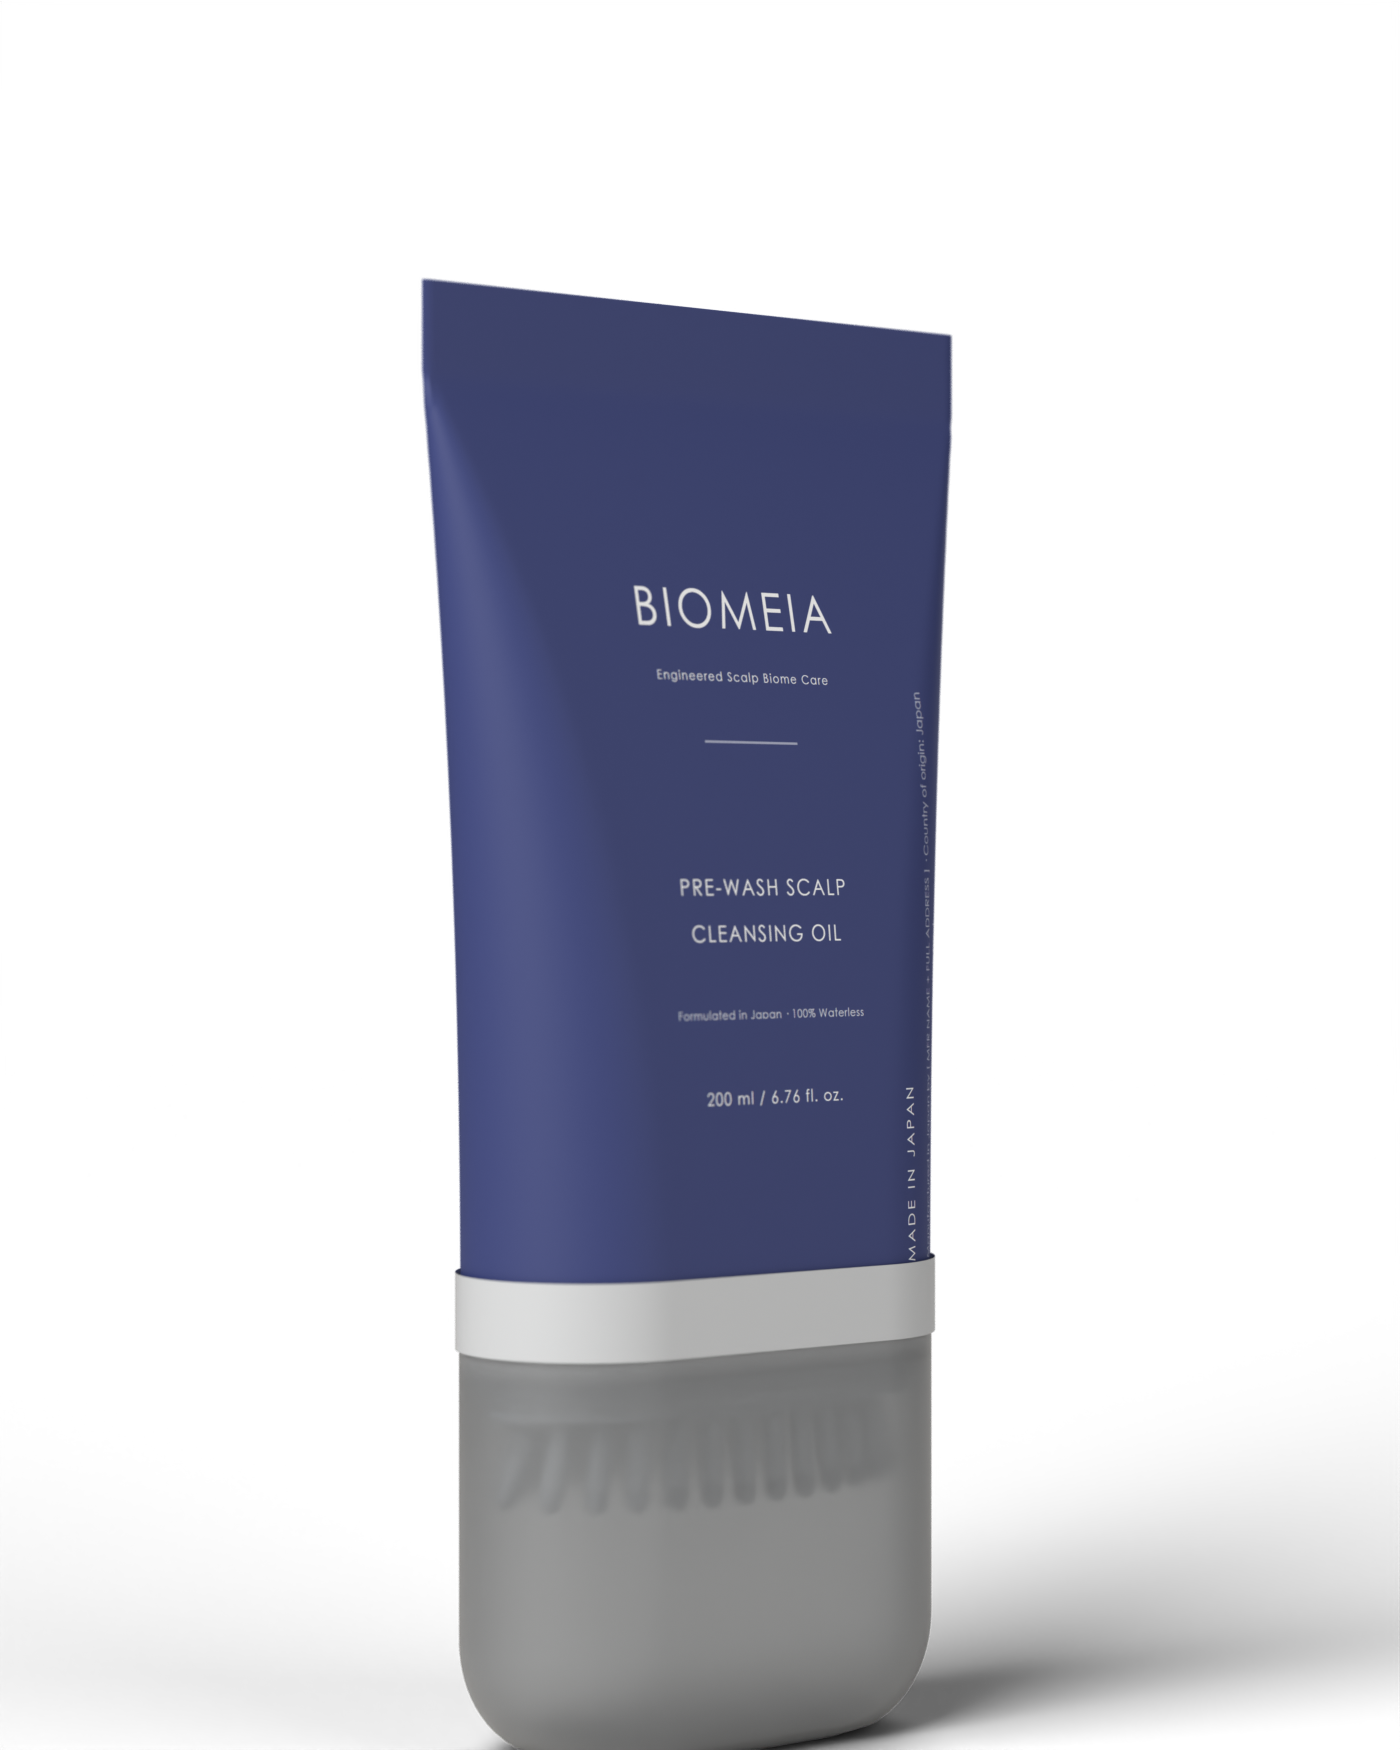
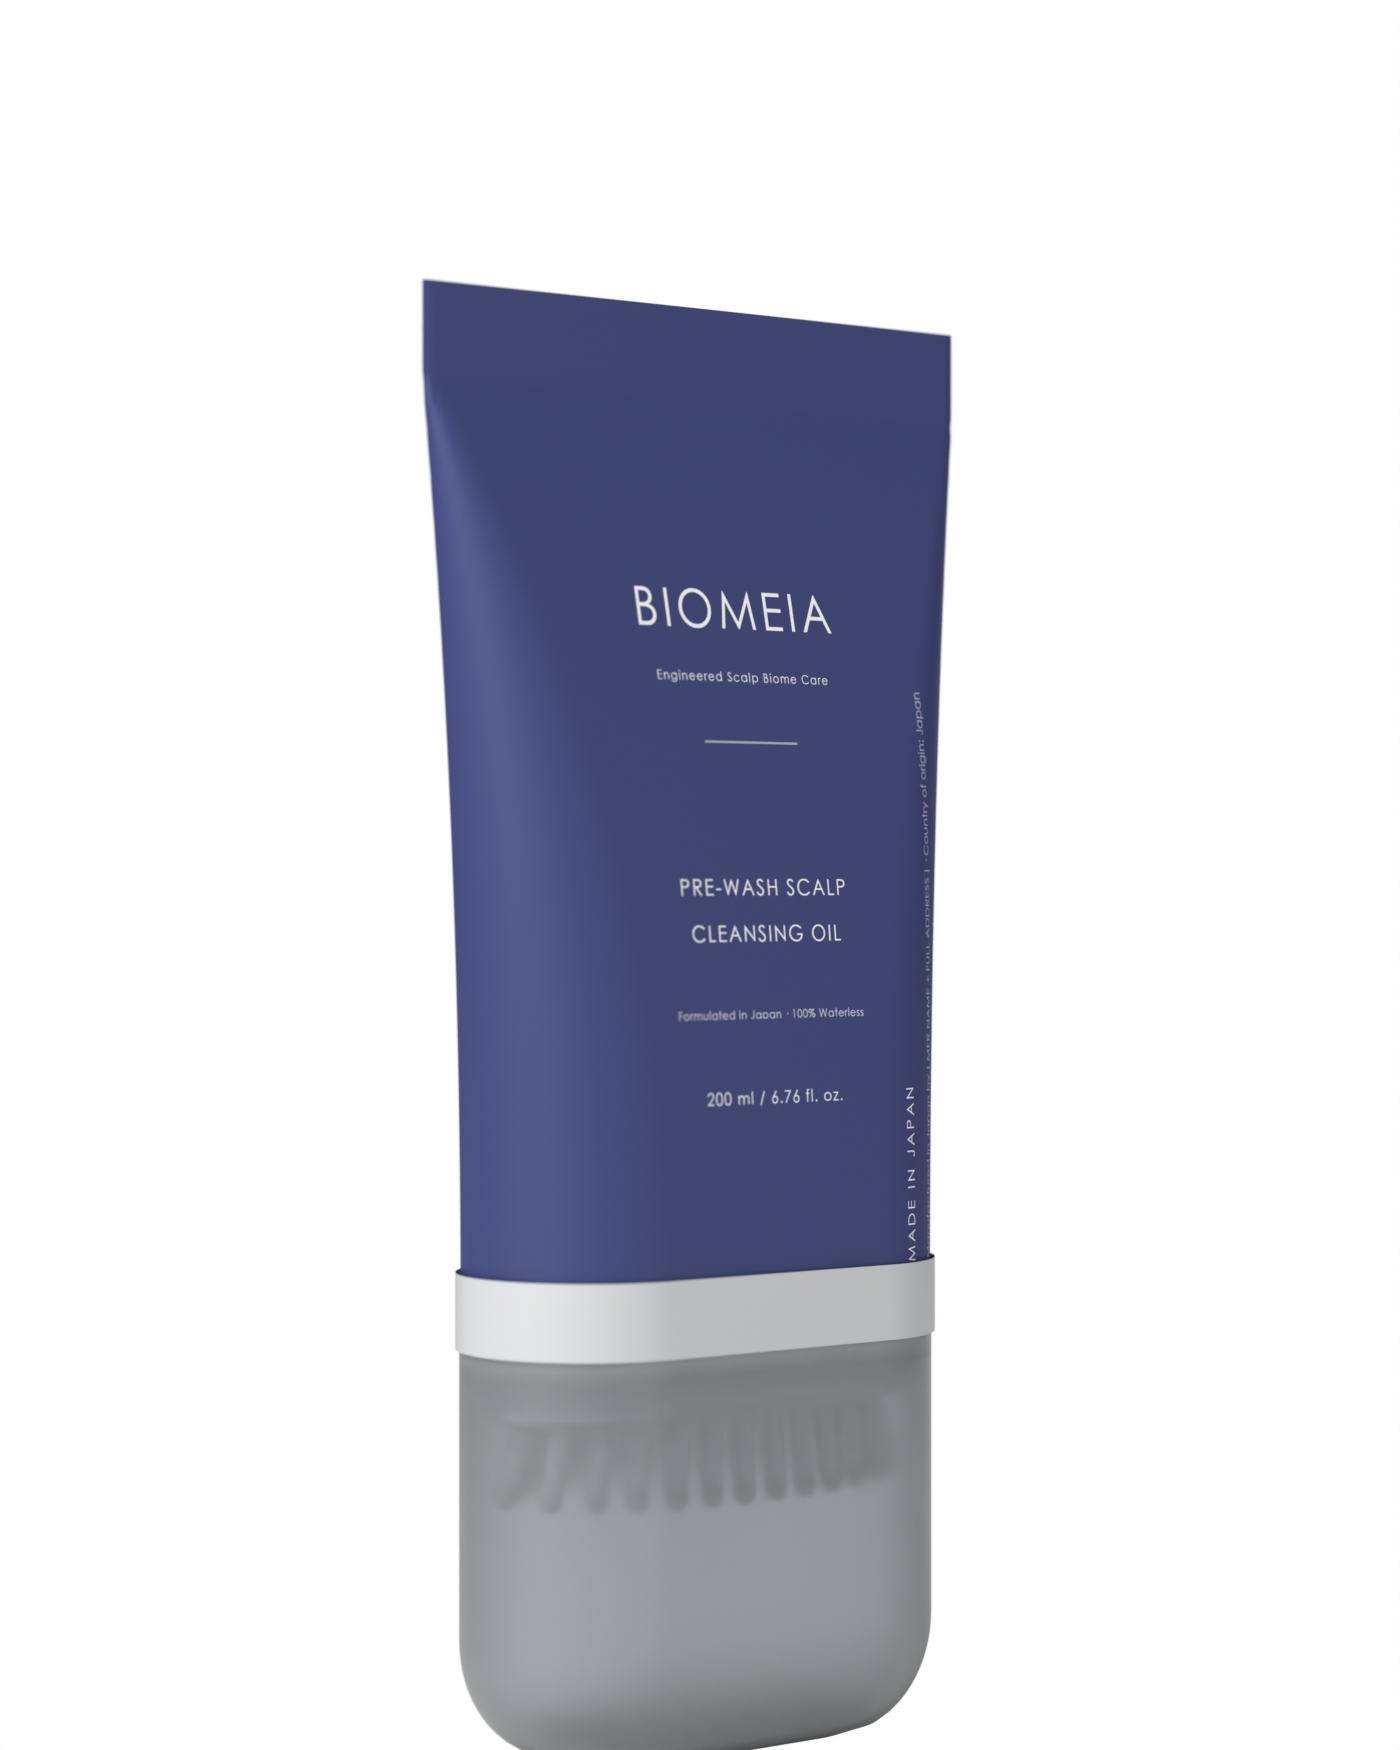
Rebuild section 2 as engineering callouts on the hero; widen applicator shot
The four stats no longer sit in their own band throwing sketch arrows at
the product. They are now balloon-and-leader annotations anchored to the
features they describe: the body, the printed 200 ml net-content line, the
collar's ON/OFF control, and the comb teeth.

The product image is drawn inside the callout SVG rather than behind an
overlay so the leaders stay registered to the features at every width. That
makes the render's framing load-bearing — anchors are in SVG user space and
assume the current camera, spin and resolution.

tube-angle.png re-rendered onto white. As a transparent PNG the shadow
catcher carried its soft shadow to the frame edge, which showed on the page
as a faint grey rectangle behind the tube; the leaders made it obvious.

applicator.png re-framed wide: 70 mm at f/5.6 pulled back to show the whole
ring of teeth with the lower tube for scale. The old tight macro read as
abstract texture rather than as an applicator.

Below 900px the SVG labels would scale past readable, so it swaps for a
plain img of the same file and the spec list under the hero carries the
same four details.

Also restores the missing space between the heading and body copy in the
skin-first section — h2 is margin-zeroed globally and nothing put it back.

Changed region(s): [[0.5529, 0.864, 1.0, 1.0], [0.3379, 0.9874, 0.3686, 1.0]]

diff --git a/css/sections.css b/css/sections.css
@@ -27,31 +27,68 @@
 }
 .hero .lede { margin-bottom: 34px; }
 
+/* Height comes from the callout SVG own 560:470 aspect rather than a
+   clamp here -- the two must not fight, or the leader lines shear away
+   from the product they point at. */
 .hero-media {
   position: relative;
   display: flex; align-items: center; justify-content: center;
-  height: clamp(360px, 46vw, 640px);
 }
-.hero-media img {
-  height: 100%; width: auto; object-fit: contain;
-  filter: drop-shadow(0 32px 60px rgba(20, 22, 28, 0.16));
+
+/* ------------------------------------------------- hero spec callouts --- */
+/* The product photograph is drawn inside this SVG rather than behind it,
+   so leader lines, balloons and the features they point at share one
+   coordinate space and stay registered at every width. */
+.hero-callouts {
+  width: 100%; height: auto;
+  overflow: visible;
 }
-.hero-ring {
-  position: absolute; inset: 6% 14%;
-  border: 1px solid var(--rule);
-  border-radius: 50%;
-  z-index: -1;
+.co-line path {
+  fill: none;
+  stroke: var(--rule-strong);
+  stroke-width: 1;
 }
+.co-dot circle { fill: none; stroke: var(--indigo); stroke-width: 1.4; }
+.co-balloon circle { fill: none; stroke: var(--indigo); stroke-width: 1; }
+.co-ref text {
+  fill: var(--indigo);
+  font-family: var(--display);
+  font-size: 9px; letter-spacing: 0.04em;
+  text-anchor: middle;
+}
+.co-label text {
+  fill: var(--ink);
+  font-family: var(--display);
+  font-size: 13.5px; letter-spacing: 0.13em;
+  text-anchor: end;
+}
+.co-sub text {
+  fill: var(--ink-3);
+  font-family: var(--body);
+  font-size: 10.5px; letter-spacing: 0.02em;
+  text-anchor: end;
+}
+
+/* The stacked-layout stand-in for the annotated SVG. */
+.hero-photo {
+  display: none;
+  width: auto; height: auto;
+  max-height: clamp(280px, 62vw, 440px);
+  margin: 0 auto;
+}
+
 @media (max-width: 900px) {
   .hero { grid-template-columns: 1fr; padding-top: 108px; text-align: left; }
-  .hero-media { order: -1; height: clamp(260px, 70vw, 440px); margin-bottom: 8px; }
+  .hero-media { order: -1; margin-bottom: 8px; }
   .hero-copy { max-width: none; }
+  .hero-callouts { display: none; }
+  .hero-photo { display: block; }
 }
 
 /* ------------------------------------------------------------ statline --- */
-/* Reads as annotation on the hero above it rather than a separate band:
-   no top border, same white ground, and each stat throws a hand-drawn
-   arrow up toward the product. */
+/* Positioning line plus the same four specs as the hero callouts, set as a
+   plain definition list so they still read when the hero annotations are
+   hidden on narrow screens. */
 .statline {
   background: var(--white);
   padding-bottom: clamp(48px, 7vw, 88px);
@@ -61,38 +98,37 @@
   font-size: clamp(15px, 1.5vw, 18px);
   letter-spacing: 0.16em; text-transform: uppercase;
   color: var(--indigo);
-  text-align: center; margin: 0 auto 8px; max-width: none;
+  text-align: center; margin: 0 auto 28px; max-width: none;
 }
-.stat-row { display: grid; grid-template-columns: repeat(4, 1fr); gap: 0; }
-.stat {
-  padding: 8px clamp(8px, 1.6vw, 20px) 0;
+.spec-list {
+  display: grid; grid-template-columns: repeat(4, 1fr);
+  gap: 0; margin: 0;
+  border-top: 1px solid var(--rule);
+}
+.spec-list > div {
+  padding: 20px clamp(10px, 1.8vw, 24px);
+  border-right: 1px solid var(--rule);
   text-align: center;
-  position: relative;
 }
-.stat-arrow {
-  width: clamp(38px, 3.6vw, 56px); height: auto;
-  margin: 0 auto 10px;
-  display: block;
-  fill: none; stroke: var(--rule-strong);
-  stroke-width: 2; stroke-linecap: round; stroke-linejoin: round;
+.spec-list > div:last-child { border-right: 0; }
+.spec-list dt {
+  font-family: var(--display);
+  font-size: clamp(15px, 1.7vw, 19px);
+  letter-spacing: 0.1em; text-transform: uppercase;
+  color: var(--indigo);
+  margin-bottom: 5px;
 }
-/* The product sits right of centre in the hero, so the arrows fan toward
-   it rather than each pointing straight up out of its own column. */
-.arrow-1 { margin-left: 55%; }
-.arrow-2 { margin-left: 52%; }
-.arrow-3 { margin-left: 46%; }
-.arrow-4 { margin-left: 34%; }
-.stat b {
-  display: block; font-family: var(--display); font-size: clamp(22px, 2.6vw, 30px);
-  color: var(--indigo); margin-bottom: 6px;
+.spec-list dd {
+  margin: 0;
+  font-size: 13px; letter-spacing: 0.02em; color: var(--ink-2);
 }
-.stat span { font-size: 13px; letter-spacing: 0.04em; color: var(--ink-2); }
 @media (max-width: 720px) {
-  .stat-row { grid-template-columns: repeat(2, 1fr); row-gap: 28px; }
-  .stat-arrow { display: none; }   /* arrows only make sense pointing at the hero */
+  .spec-list { grid-template-columns: repeat(2, 1fr); }
+  .spec-list > div:nth-child(2n) { border-right: 0; }
+  .spec-list > div:nth-child(n+3) { border-top: 1px solid var(--rule); }
 }
-
-/* ------------------------------------------------------------- section --- */
+."
+/* ------------------------------------------------------------- section --- */"
 .section { padding: var(--section) 0; }
 .section.on-bone { background: var(--bone); }
 .section-head { max-width: 640px; margin: 0 0 56px; }
@@ -103,6 +139,9 @@
   display: grid; grid-template-columns: 1fr 1fr; gap: clamp(28px, 5vw, 80px);
   align-items: center;
 }
+/* h2 is margin-zeroed globally; standalone headings like this one need
+   their own space before the body copy. */
+.logic-copy h2 { margin-bottom: 22px; }
 .logic-copy p { font-size: 17.5px; color: var(--ink-2); }
 .logic-copy strong { color: var(--ink); font-weight: 600; }
 .bridge-list { list-style: none; margin: 28px 0 0; padding: 0; display: grid; gap: 0; }

diff --git a/index.html b/index.html
@@ -40,33 +40,77 @@
       </p>
       <a href="#signup" class="btn">Get First-Batch Access</a>
     </div>
+
+    <!-- Product plus engineering callouts. The image lives inside the SVG so
+         the leader lines stay locked to the features they point at at every
+         viewport width — an absolutely-positioned overlay drifts as soon as
+         the container aspect changes. -->
     <div class="hero-media">
-      <div class="hero-ring" aria-hidden="true"></div>
-      <img src="assets/product/tube-angle.png" alt="Biomeia Pre-Wash Scalp Cleansing Oil, 200 ml tube with built-in applicator" width="900" height="1125">
+      <svg class="hero-callouts" viewBox="0 0 560 470" role="img"
+           aria-label="Biomeia Pre-Wash Scalp Cleansing Oil, 200 ml tube with a built-in multi-port comb applicator and ON/OFF dispensing control">
+        <image href="assets/product/tube-angle.png" x="200" y="12" width="340" height="425"/>
+
+        <!-- Leaders elbow out horizontally from the balloon before angling
+             to the anchor, so the label column stays on an even rhythm while
+             the anchors sit exactly on the features. -->
+        <g class="co-line">
+          <path d="M203 150 H 329"/>
+          <path d="M203 255 H 300 L 387 288"/>
+          <path d="M203 330 H 337"/>
+          <path d="M203 400 H 300 L 347 374"/>
+        </g>
+        <g class="co-dot">
+          <circle cx="332" cy="150" r="3.2"/>
+          <circle cx="390" cy="288" r="3.2"/>
+          <circle cx="340" cy="330" r="3.2"/>
+          <circle cx="350" cy="373" r="3.2"/>
+        </g>
+
+        <g class="co-balloon">
+          <circle cx="194" cy="150" r="9"/>
+          <circle cx="194" cy="255" r="9"/>
+          <circle cx="194" cy="330" r="9"/>
+          <circle cx="194" cy="400" r="9"/>
+        </g>
+        <g class="co-ref">
+          <text x="194" y="153.5">01</text>
+          <text x="194" y="258.5">02</text>
+          <text x="194" y="333.5">03</text>
+          <text x="194" y="403.5">04</text>
+        </g>
+
+        <g class="co-label">
+          <text x="176" y="148">100% WATERLESS</text>
+          <text x="176" y="253">200 ML</text>
+          <text x="176" y="328">ON / OFF</text>
+          <text x="176" y="398">MULTI-PORT</text>
+        </g>
+        <g class="co-sub">
+          <text x="176" y="162">No water fillers</text>
+          <text x="176" y="267">6.76 fl. oz. net</text>
+          <text x="176" y="342">Dispensing control</text>
+          <text x="176" y="412">Comb applicator</text>
+        </g>
+      </svg>
+      <!-- Below 900px the callout labels would scale past readable, so the
+           SVG gives way to the plain product image and the spec list under
+           the hero carries the same four details. Same file, so no extra
+           request. -->
+      <img class="hero-photo" src="assets/product/tube-angle.png" alt="Biomeia Pre-Wash Scalp Cleansing Oil, 200 ml tube with a built-in applicator" width="1400" height="1750">
     </div>
   </header>
 
   <section class="statline">
     <div class="wrap">
       <p class="statline-lead">Bringing J-Beauty scalp care to Singapore</p>
-      <div class="stat-row">
-        <div class="stat">
-          <svg class="stat-arrow arrow-1" viewBox="0 0 60 40" aria-hidden="true"><path d="M2 37 C 20 34, 38 26, 56 8" /><path d="M47 6 L 58 6 L 55 17" /></svg>
-          <b>100%</b><span>Waterless formula</span>
-        </div>
-        <div class="stat">
-          <svg class="stat-arrow arrow-2" viewBox="0 0 60 40" aria-hidden="true"><path d="M6 37 C 22 32, 38 22, 54 8" /><path d="M45 5 L 56 6 L 52 17" /></svg>
-          <b>1</b><span>Built-in scalp applicator</span>
-        </div>
-        <div class="stat">
-          <svg class="stat-arrow arrow-3" viewBox="0 0 60 40" aria-hidden="true"><path d="M14 37 C 26 30, 38 18, 50 7" /><path d="M41 5 L 52 5 L 49 16" /></svg>
-          <b>5</b><span>Steps, once or twice weekly</span>
-        </div>
-        <div class="stat">
-          <svg class="stat-arrow arrow-4" viewBox="0 0 60 40" aria-hidden="true"><path d="M26 38 C 32 28, 36 16, 40 6" /><path d="M33 7 L 41 3 L 44 13" /></svg>
-          <b>SG</b><span>Launching in Singapore</span>
-        </div>
-      </div>
+      <!-- Same four details as the hero callouts, for viewports where the
+           layout stacks and SVG label text would be too small to read. -->
+      <dl class="spec-list">
+        <div><dt>100% Waterless</dt><dd>No water fillers</dd></div>
+        <div><dt>200 ml</dt><dd>6.76 fl. oz. net</dd></div>
+        <div><dt>ON / OFF</dt><dd>Dispensing control</dd></div>
+        <div><dt>Multi-port</dt><dd>Comb applicator</dd></div>
+      </dl>
     </div>
   </section>
 
@@ -150,7 +194,7 @@
   <!-- ======================================================= applicator === -->
   <section class="section">
     <div class="wrap applicator-band">
-      <img src="assets/product/applicator.png" loading="lazy" alt="Close-up of the Biomeia applicator head, a dished oval with teeth ringing the rim" width="1600" height="1200">
+      <img src="assets/product/applicator.png" loading="lazy" alt="Close-up of the Biomeia applicator head, a dished oval with teeth ringing the rim" width="1600" height="1060">
       <div class="reveal">
         <p class="eyebrow">Direct-to-Scalp Delivery</p>
         <h2>An applicator built for skin, not for hair length</h2>

diff --git a/NOTES.md b/NOTES.md
@@ -14,8 +14,9 @@ white minimalism as the one accent.
 ## File map
 
 ```
-index.html          — the landing page (hero, stats, science, ritual,
-                       applicator, turntable video, signup)
+index.html          — the landing page (hero with engineering callouts,
+                       spec line, science, ritual, applicator, turntable
+                       video, signup)
 story.html           — founder's-story page, drawn from the brand
                        guidelines' founder narrative (§3)
 privacy.html         — PDPA-oriented privacy policy (draft, flagged for
@@ -45,11 +46,19 @@ stock photography. Transparent background with `is_shadow_catcher` on
 the floor, so the tube drops onto the page without a studio backdrop
 fighting the white ground.
 
-- `tube-front.png` / `tube-angle.png` — hero and general use
-- `applicator.png` — a close macro of the comb-tip rim. It reads more
-  abstract than a straight product shot; if it needs to read more
-  clearly as "the applicator" at a glance, re-render a wider framing
-  from `CAM_Comb` with `SHOW_CAP = False`.
+- `tube-front.png` — straight-on, still a transparent PNG.
+- `tube-angle.png` — the hero three-quarter. Re-rendered onto **white**
+  (`scratchpad/hero_white.py`), not transparent: the shadow-catcher floor
+  carried its soft shadow to the frame edge, which showed on the page as a
+  faint grey rectangle behind the tube. Same Is Camera Ray world as the
+  turntable. Its framing is load-bearing — the hero callout SVG anchors
+  leader lines to features by coordinate, so re-render with the same
+  camera, the same 38 degree spin and the same 1400x1750, or the leaders
+  will point at nothing.
+- `applicator.png` — the applicator head, re-framed wide
+  (`scratchpad/applicator_wide.py`) from a 70 mm lens at f/5.6 so the whole
+  ring of teeth plus the lower tube body read at a glance. The first pass
+  was a tight macro that looked like abstract texture.
 
 ## Signups
 
@@ -110,3 +119,20 @@ bit hard on Blender 5.2 and are worth knowing before re-rendering:
   backdrop is white to camera only.
 - The floor is set `visible_camera = False` so it lights and shadows the
   product without rendering a grey horizon band across the frame.
+
+## The hero callouts
+
+The hero product is drawn *inside* an SVG (`.hero-callouts`) rather than as
+an `<img>` behind an overlay. That is deliberate: the balloons, leader lines
+and the features they point at then share one coordinate space and stay
+registered at every viewport width, where an absolutely-positioned overlay
+drifts as soon as the container aspect changes.
+
+Anchor coordinates are in the SVG's 560x470 user space, with the render
+placed at `x=200 y=12 w=340 h=425`. **They are tied to this exact render.**
+Changing the camera, the 38 degree spin, or the 1400x1750 output in
+`hero_white.py` moves the features out from under the leader lines.
+
+Below 900px the labels would scale past readable, so the SVG is swapped for
+a plain `<img class="hero-photo">` of the same file (no extra request) and
+the `.spec-list` under the hero carries the same four details.
